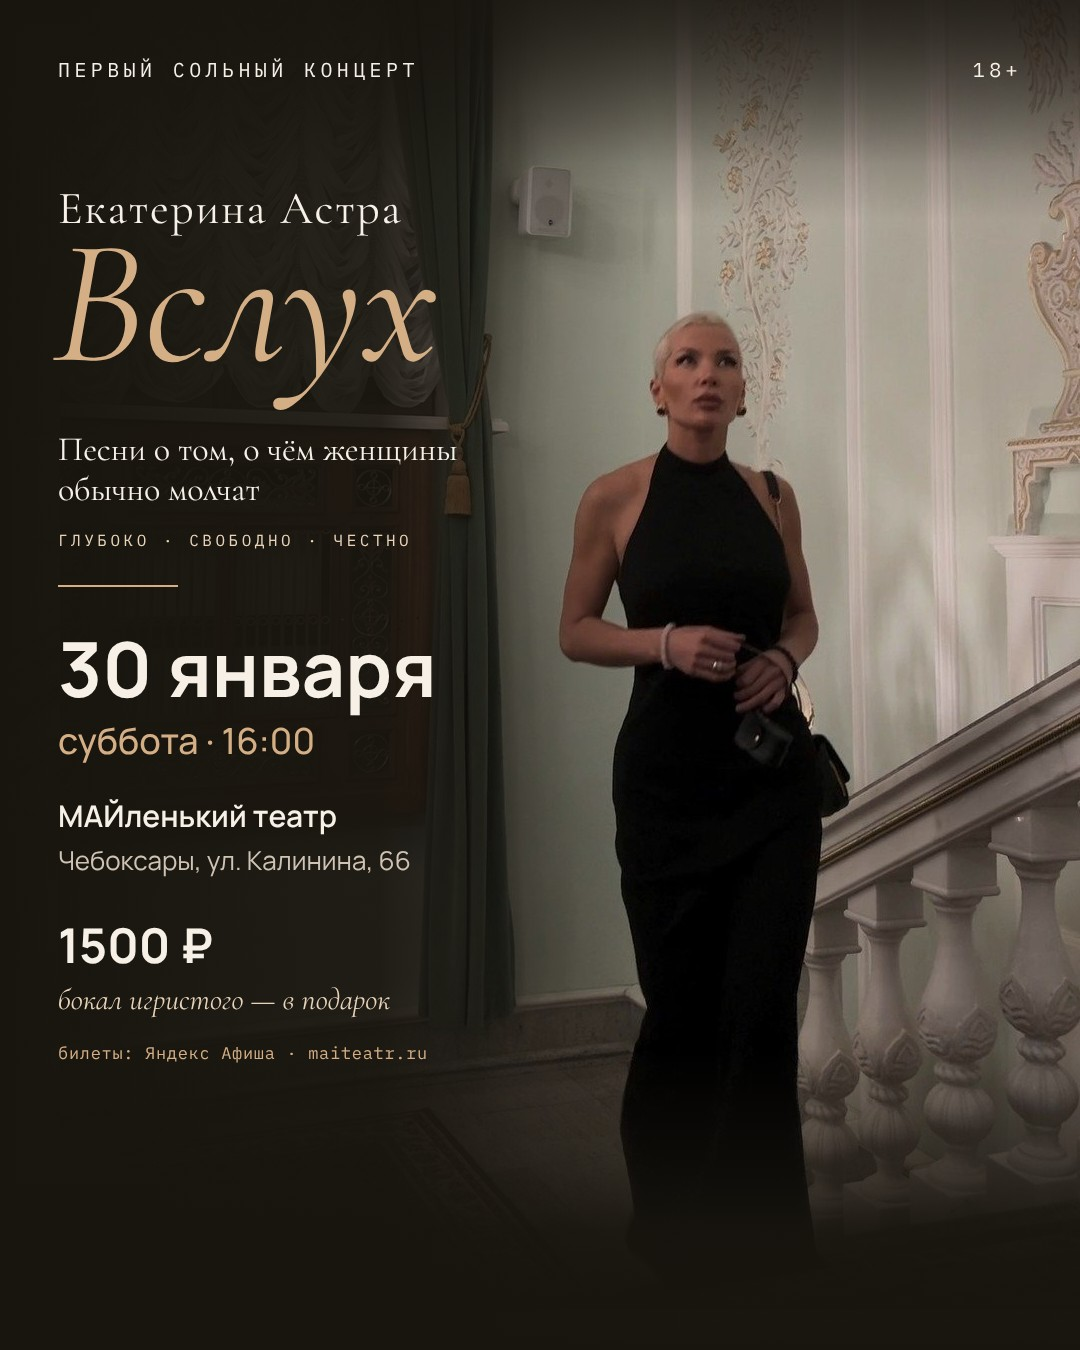
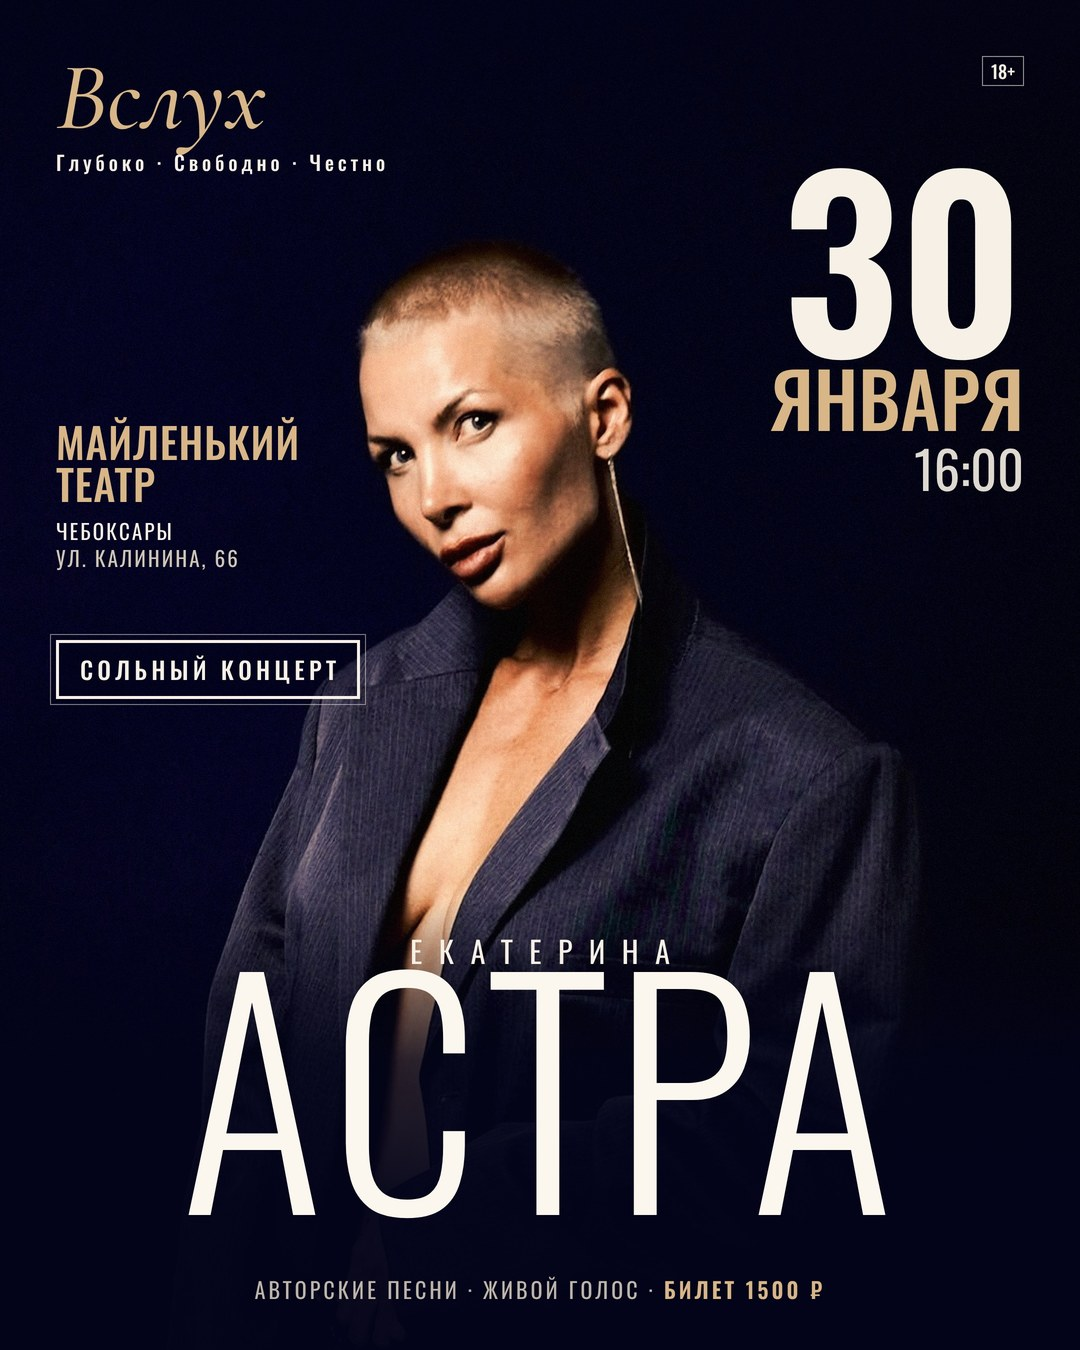
Новая афиша концерта «Вслух»
Claude-Session: https://claude.ai/code/session_01V88sGK2Mrs1G1ttqQjZDwq

diff --git a/concert.html b/concert.html
@@ -9,7 +9,7 @@
 <title>«Вслух» — концерт Екатерины Астры, 30 января, МАЙленький театр</title>
 <meta property="og:title" content="Екатерина Астра. «Вслух» · 30 января 2027 · МАЙленький театр, Чебоксары">
 <meta property="og:description" content="Я не певица. Я хочу поговорить с вами по душам. Вечер авторских песен, 30 января, 16:00. Билеты 1500 ₽ на Яндекс Афише.">
-<meta property="og:image" content="https://ekaterinaastra.github.io/media/afisha-vsluh.jpg">
+<meta property="og:image" content="https://ekaterinaastra.github.io/media/afisha-vsluh.jpg?v=3">
 <link rel="canonical" href="https://ekaterinaastra.github.io/concert.html">
 <meta name="claude:viewport-fit-sides" content="cover">
 <link rel="preconnect" href="https://fonts.googleapis.com">
@@ -219,7 +219,7 @@ footer .wrap{padding-block:56px 64px;display:grid;gap:24px}
       <div class="count"><strong id="days">—</strong><span id="days-label">дней до концерта</span></div>
       </div>
       <figure class="c-poster">
-        <a href="media/afisha-vsluh-1x2.jpg" target="_blank" rel="noopener"><img src="media/afisha-vsluh.jpg" width="1080" height="1350" alt="Афиша концерта «Вслух»: Екатерина Астра в чёрном платье на парадной лестнице. 30 января, 16:00, МАЙленький театр, Чебоксары, ул. Калинина, 66. 1500 ₽"></a>
+        <a href="media/afisha-vsluh-stories.jpg" target="_blank" rel="noopener"><img src="media/afisha-vsluh.jpg?v=3" width="1080" height="1350" alt="Афиша: Екатерина Астра, сольный концерт «Вслух». 30 января, 16:00, МАЙленький театр, Чебоксары, ул. Калинина, 66. Билет 1500 ₽"></a>
       </figure>
     </div>
   </div>
